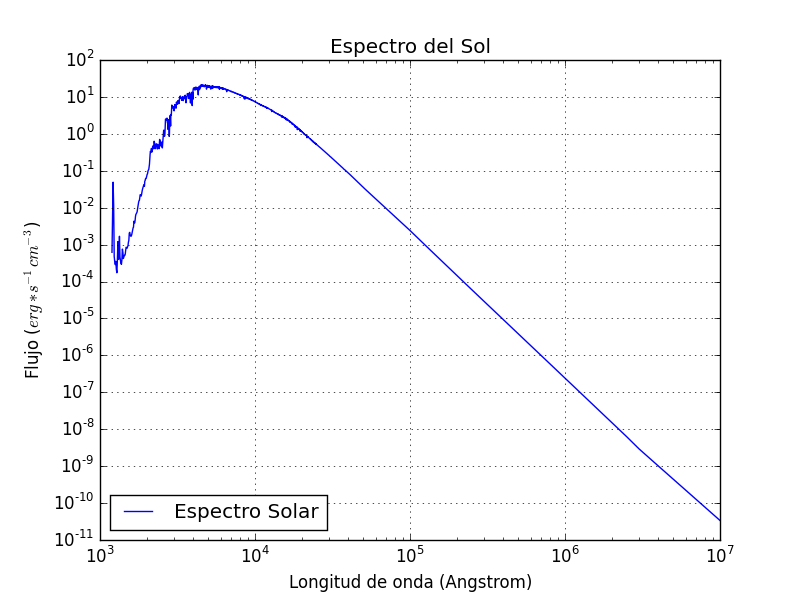
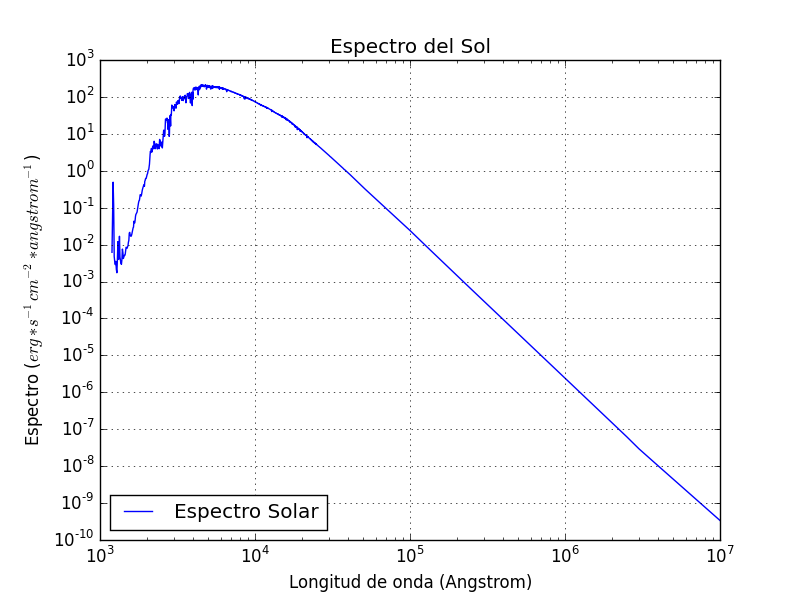
arreglo unidades del plot

diff --git a/Tarea.py b/Tarea.py
@@ -38,11 +38,11 @@ def refinar_integral(f,a,b,tolerancia):#funcion,inicio,final,tolerancia
 data=np.loadtxt("sun_AM0.dat")
 #transformar a unidades cgs (erg*s-1*cm-2*cm-1) para flujo y angstrom para longitud de onda
 #nm->angstrom. *10
-#(W*m-2*nm-1)->(erg*s-1*cm-2*cm-1). 10^7*(10^2)^-2*(10^2)^-1
+#(W*m-2*nm-1)->(erg*s-1*cm-2*Angstrom-1). 10^7*(10^2)^-2*(10)^-1
 w_length=data[:,0]
 w_length_angstrom=data[:,0]*10.0
 flux=data[:,1]
-flux_cgs=data[:,1]*10.0
+flux_cgs=data[:,1]*10.0**2
 
 #graficar en escala logaritmica
 plt.yscale('log')
@@ -50,7 +50,7 @@ plt.xscale('log')
 
 plt.plot(w_length_angstrom,flux_cgs,label='Espectro Solar')
 plt.xlabel('Longitud de onda (Angstrom)')
-plt.ylabel('Flujo ($erg*s^{-1} cm^{-3}$)')
+plt.ylabel('Espectro ($erg*s^{-1} cm^{-2}*angstrom^{-1}$)')
 plt.title('Espectro del Sol')
 plt.legend(loc='lower left')
 grid(True)
